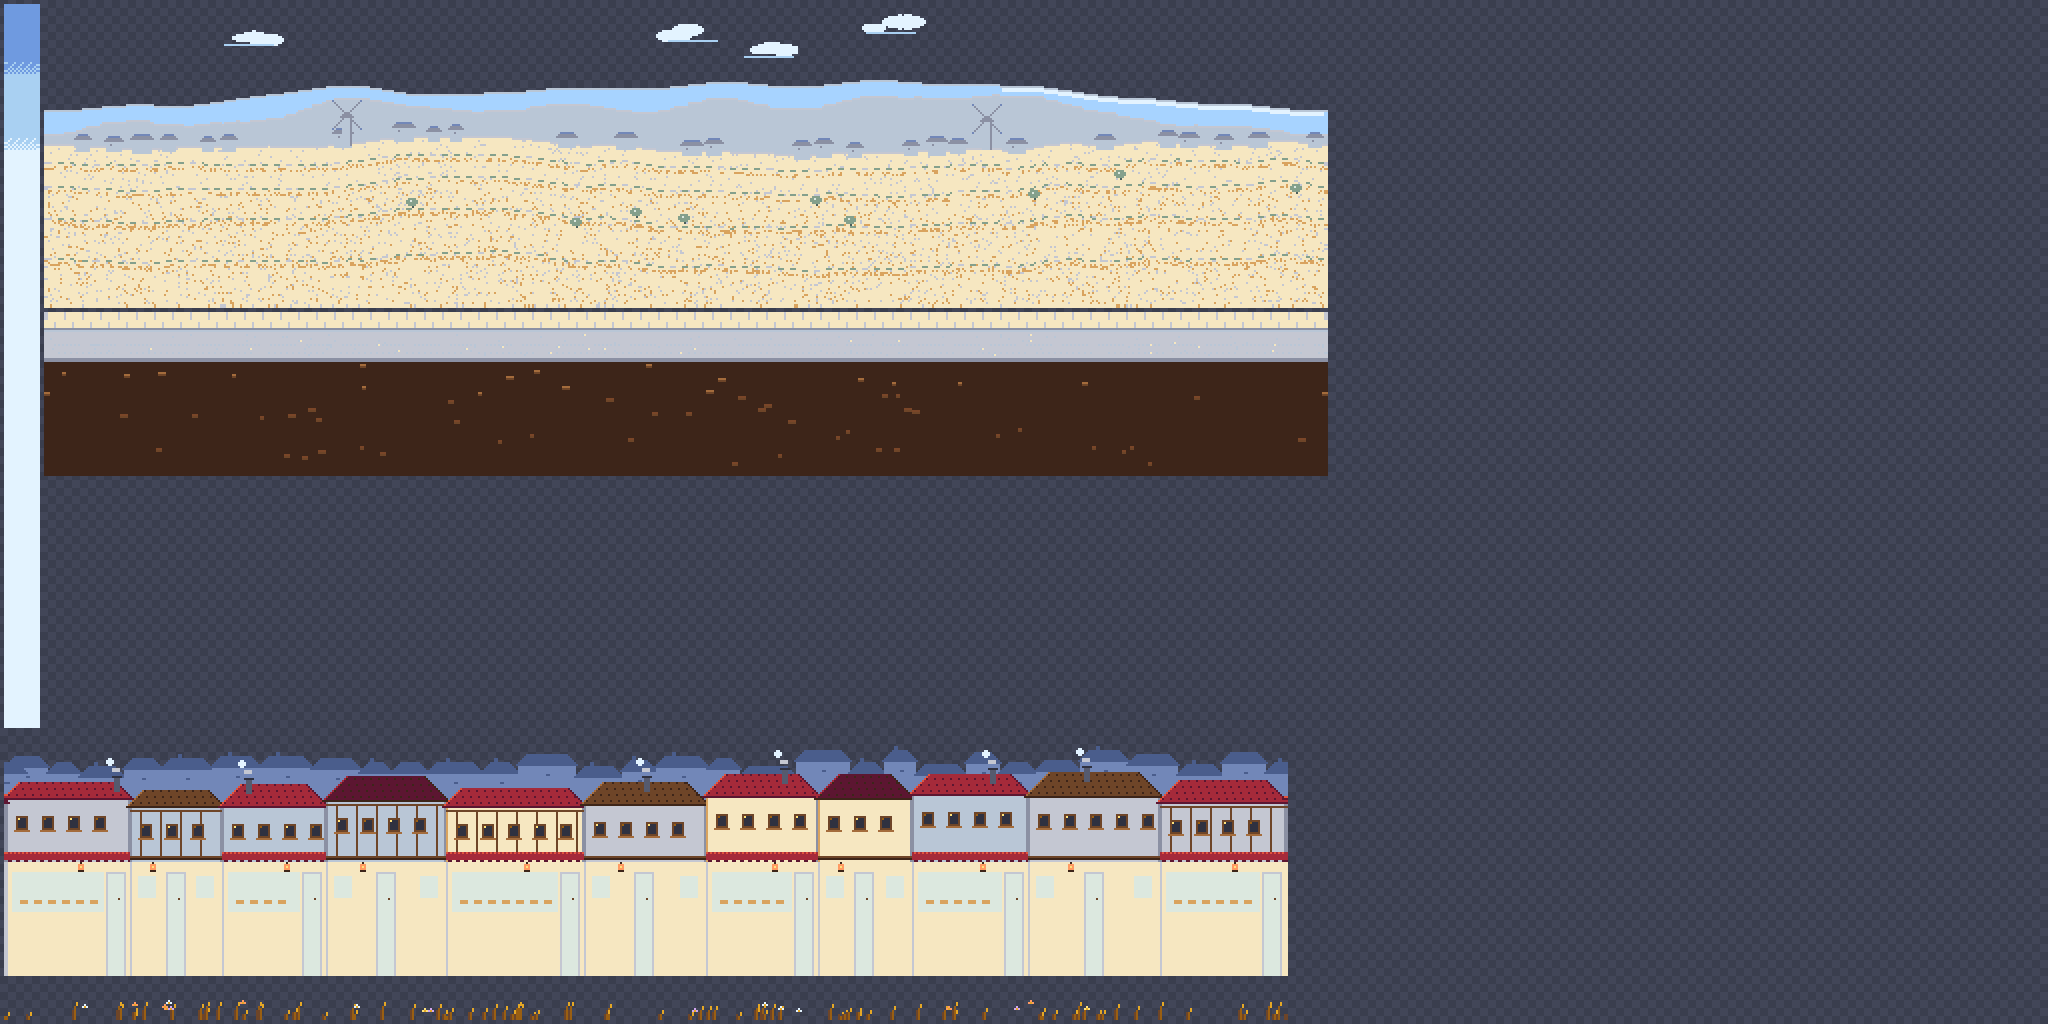
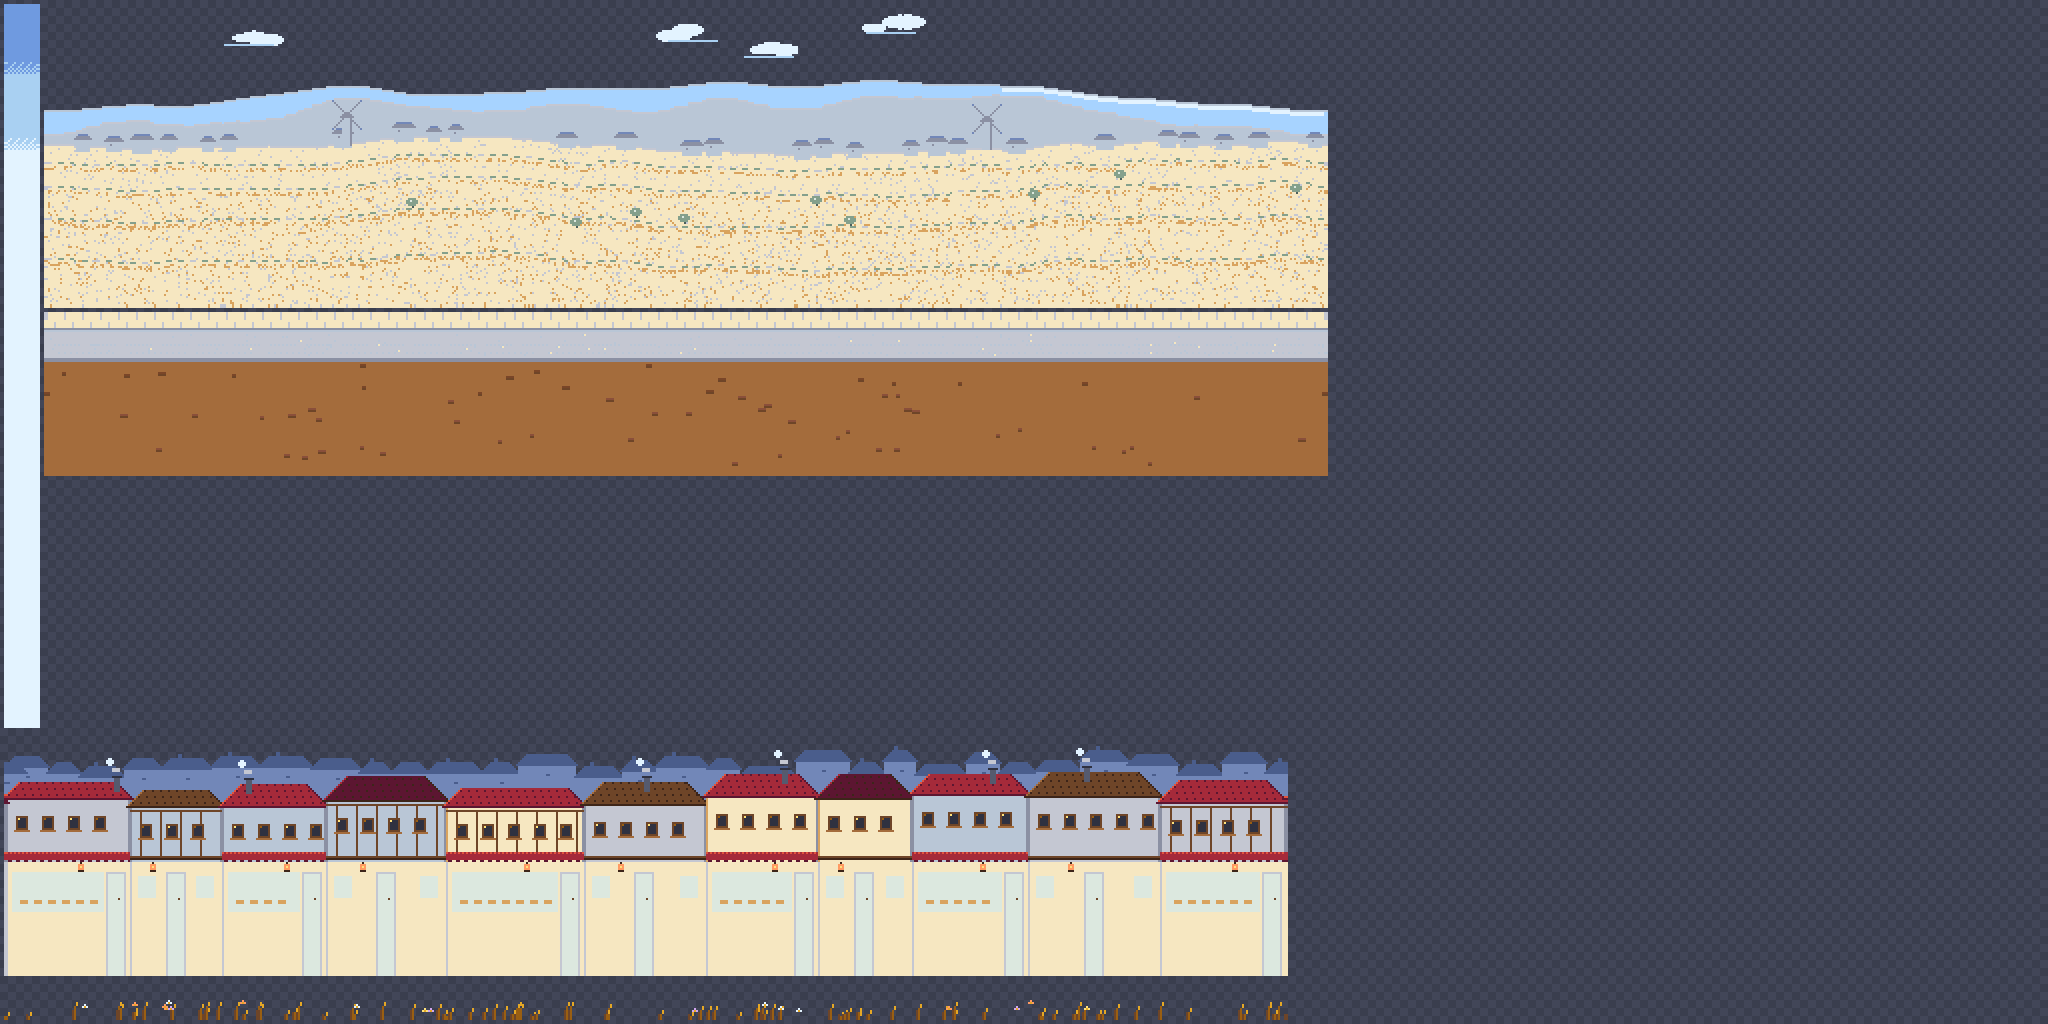
[Design] 09-art-world 06 W-2 응답: HUD 아래 흙 띠(y≥296) 평균 L* 25.4→54.1(06 방식 재현 23.4 확인), C4·성·둥지·투사체 값 그대로

Changed region(s): [[0.0, 0.3438, 0.6562, 0.4688]]

diff --git a/tools/art/biome.py b/tools/art/biome.py
@@ -710,6 +710,11 @@ STREET_LIGHT = dict(wall="U", corner="x", frame="z", glass="z", loaf="T", door_f
 STREET_STONE = dict(wall="x", corner="N", frame="N", glass="X", loaf="T", door_frame="X", door="N", knob="O",
                     pave="N", pave_joint="x", kerb="X", kerb2="N", lane="x", lane_edge="X", rut="N", dust="N", crumb="z")
 STREET = STREET_LIGHT
+# 06 W-2 (coordination/requests/06-art-ui-to-09-art-world.md): the soil band under the HUD row (screen y >= 296) needs
+# mean L* >= 39 (>= 43 if possible) so the HUD's dark edge reaches 3:1. Candidates, light street otherwise unchanged:
+SOIL_SAND = dict(soil="o", stone="O", stone_hi="H", stone_hi_low="s")     # warm sandy earth, L* 50.6
+SOIL_COBBLE = dict(soil="X", stone="A", stone_hi="x", stone_hi_low="M")   # cool grey cobble foundation, L* 60.0
+STREET = {**STREET_LIGHT, **SOIL_SAND}     # chosen (EXTERNAL_RANGE.md section 6): band 54.1 >= 43 with the smaller jump to the HUD
 
 
 def v2_mid(meta, seed=222):
@@ -764,7 +769,7 @@ def v2_ground(meta, seed=233):
             elif y < 24:
                 k = S["lane_edge"]
             else:
-                k = "w"
+                k = S.get("soil", "w")                                             # soil band under the HUD row
             cv.put(x, y, c(k))
     for x in range(W):                                                             # faint wheel ruts
         if (x // 3) % 6 != 0 and x % 2 == 0:
@@ -779,8 +784,8 @@ def v2_ground(meta, seed=233):
     for _ in range(60):                                                            # soil stones (mostly under the HUD)
         x, y, w = int(rng.integers(0, W)), int(rng.integers(26, 76)), int(rng.integers(2, 5))
         for i in range(w):
-            cv.put(x + i, y, c("O"))
-            cv.put(x + i, y - 1, c("H" if y > 40 else "o"))
+            cv.put(x + i, y, c(S.get("stone", "O")))
+            cv.put(x + i, y - 1, c(S.get("stone_hi_low", "H") if y > 40 else S.get("stone_hi", "o")))
     meta.update(view_y=280, parallax=1.0, tile=True, lane_line=LANE,
                 note="layer row 15 is the feet line: place layer at view_y = ground_y - 15")
     return cv

diff --git a/tools/art/world/hud_band.py b/tools/art/world/hud_band.py
@@ -1,0 +1,40 @@
+"""09-art-world: 06 W-2 ground band under the HUD row, measured the way 06 measured it.
+
+python tools/art/world/hud_band.py <bg_swap out dir> [tag=ko_1x]
+
+<dir> is the output of tools/art/ui_art/bg_swap.py (06's tool: 07's ad47eda fixed-set frames with the battlefield of
+a SHA drawn in). Value = mean CIE L* of the background layer (`layers/<tag>_<scene>_bg.png`, no HUD, units or text)
+over screen rows y >= 296, all columns, plus the mean WCAG relative luminance of the same pixels.
+Check: on 92a1718 this gives 23.4 in every scene, the number in 06's request (06-art-ui-to-09-art-world.md W-2).
+"""
+import json
+import os
+import sys
+
+import numpy as np
+from PIL import Image
+
+sys.path.insert(0, os.path.join(os.path.dirname(os.path.abspath(__file__)), "..", "..", "qa"))
+import art_metrics as am  # noqa: E402  (07's colour maths, read-only import)
+
+SCENES = ["2_r01_t10", "3_r01_t30", "4_r06_t46", "5_r08_peak", "6_r10_boss"]
+Y0 = 296
+
+
+def main(d, tag="ko_1x"):
+    out = {}
+    for sc in SCENES:
+        p = os.path.join(d, "layers", f"{tag}_{sc}_bg.png")
+        if not os.path.exists(p):
+            continue
+        bg = np.asarray(Image.open(p).convert("RGB"))[Y0:]
+        lin = bg.astype(float) / 255.0
+        lin = np.where(lin <= 0.04045, lin / 12.92, ((lin + 0.055) / 1.055) ** 2.4)
+        out[sc] = {"L_mean": round(float(am.lab(bg)[..., 0].mean()), 1),
+                   "rel_lum_mean": round(float((lin @ np.array([0.2126, 0.7152, 0.0722])).mean()), 3)}
+    print(json.dumps(out))
+    return out
+
+
+if __name__ == "__main__":
+    main(sys.argv[1], sys.argv[2] if len(sys.argv) > 2 else "ko_1x")

diff --git a/docs/art/world/EXTERNAL_RANGE.md b/docs/art/world/EXTERNAL_RANGE.md
@@ -53,3 +53,17 @@ tools/art/biome.py: `STREET = STREET_LIGHT` (cream U front, z windows/doors with
 | P1 interior ring (now info) ally / enemy min dL* | info | 28.1 / 11.2 | 11.5 / 18.1 |
 Also: validate --determinism PASS, contract_diff 0 changes, 08 asset_budget_check PASS (worst battle 8.75 MiB), cvd_check unchanged. A first light version with x/N doors and frames failed proj_sep (30–45: the 03 bread-roll arrow, T L* 70.7, sat on L* 80 details); lightening the details fixed it.
 Still open: units in front of the keep's dark lower course (C4 formula 0.6–3.8 at x 30–96; no lower-course colour tried fixes it, they pass there only in the first seconds of a round); bright stress variant boss_warlord 57.2; 07's real capture of this commit not run yet.
+
+## 6. 06 W-2: soil band under the HUD row (2026-11-01 ~09:30 KST, composites + 03 tools; no new GPU capture)
+06's request: the ground under the HUD row (screen y ≥ 296) needs mean L* ≥ 39, ≥ 43 if possible, so the HUD's dark edge reaches 3:1. Measured the way 06 did it: `tools/art/ui_art/bg_swap.py` (06's tool, 07 ad47eda frames with our battlefield drawn in), then `tools/art/world/hud_band.py` = mean L* of the background layer over rows y ≥ 296. It reproduces 06's 23.4 on 92a1718 in all five scenes. Candidates only change the soil rows of the ground layer (`biome.SOIL_SAND`, `SOIL_COBBLE`); bg_swap read their atlases through a wrapper because they were not committed yet.
+| measure (same tools as §5) | 46dd340 | soil sand `o` (chosen) | soil cobble `X` |
+|---|---|---|---|
+| band y ≥ 296 mean L* / relative luminance (06 line ≥ 39, better ≥ 43) | 25.4 / 0.099 FAIL | **54.0–54.1 / 0.241–0.242** | 62.2–62.3 / 0.321–0.322 |
+| C4 formula min / median (≥ 15) | 28.9 / 42.4 | 28.9 / 42.4 | 28.9 / 42.4 |
+| keep ring dE (≥ 25) / nest ring dE | 28.9 / 44.8 | 28.9 / 44.8 | 28.9 / 44.8 |
+| 03 nest_check dL* / protan dE (≥ 25 / ≥ 20) | 35.5–41.3 / 33.9–38.9 | same | same |
+| 03 readability proj_sep min, meadow / dark / bright (≥ 60) | 72.7 / 87.9 / 72.7 | same | same |
+| 03 readability sil_min meadow (≥ 60) | 60.8–70.9 | same | same |
+| cvd_check, validate --determinism, contract_diff, 08 budget | PASS, PASS, 0, PASS | same | same |
+The soil rows are below every unit, projectile and nest-check area, which is why the other numbers do not move. Choice: **sand**. Both pass 43; sand keeps the warm bakery earth and puts a smaller value jump between the HUD row and the ground (06's Z1/Z3 worry about the HUD drawing the eye), while cobble adds 8 L* more margin that 06 did not ask for. If 06's re-measure prefers low chroma under the cards (sand `o` has C* 39.6, cobble `X` 10.8), cobble is ready as `STREET = {**STREET_LIGHT, **SOIL_COBBLE}`.
+Evidence: docs/art/world/evidence/world2/soil_street_ab.json, preview_soil_{sand,cobble}_1x.png, readability_soil_{sand,cobble}.txt.

diff --git a/coordination/requests/09-art-world-to-06-art-ui.md b/coordination/requests/09-art-world-to-06-art-ui.md
@@ -3,3 +3,11 @@
 ## W1 2026-11-01 07:20 KST — FYI: shared assets/manifest.json and docs/art/ATLAS_BUDGET.md
 My commit carries both files as build.py wrote them on a clean `git archive` of HEAD 3f70d8f (it contains your adc0965 and 02ec60f) plus my three pages. The diff touches only the rows of biome_meadow, bases and fx_combat (disk_bytes), the totals line and the biome_01 sky clear_color. None of your ui_* rows change. I did not build in the shared tree, because your and 03's uncommitted tools/art sources are there; nothing of yours was regenerated by me this time.
 Earlier note: at ~02:5x a shared-tree build of mine regenerated ui_main.* and atlas_ui_main.png from your then-uncommitted ui.py once. I never committed those; the shared tree shows no ui_* change from me now.
+
+## W2 2026-11-01 ~09:30 KST — reply to your W-2 (ground band under the HUD row): mean L* 54.0–54.1 in the commit that carries this note
+(Written here because Publish-Task lets me commit only my own `09-art-world-to-*` request files, not your file.)
+- **Your method, reproduced:** your `bg_swap.py` on 07's ad47eda frames, then the mean L* of the background layer over screen rows y ≥ 296 (`tools/art/world/hud_band.py`). It gives your **23.4** on 92a1718 in all five scenes. 46dd340 (light street) is **25.4**: the light street did not reach the soil under the HUD.
+- **New value (soil rows of the ground layer only, warm sandy earth `o`):** **54.0–54.1** mean L*, mean relative luminance 0.241–0.242, in all five ko scenes. That is above both of your lines (39 for #07070c, 43 for K).
+- **Unchanged with it (same tools as before):** 07 C4 formula min 28.9 / median 42.4, keep ring dE 28.9, nest ring 44.8, 03 nest_check dL* 35.5–41.3 / protan 33.9–38.9, 03 readability proj_sep ≥ 72.7 in every variant, sil_min meadow 60.8–70.9, cvd, determinism, contract_diff 0, 08 budget PASS. The soil rows sit below every unit and projectile.
+- **Alternative ready:** cool grey cobble `X` gives 62.2–62.3 (C* 10.8 instead of 39.6). I picked sand for the smaller value jump between the HUD row and the ground. If your Z1/Z3 re-measure prefers the low-chroma cobble, tell me and I switch one line in biome.py.
+- Table and evidence: docs/art/world/EXTERNAL_RANGE.md §6. Composite and Python mock numbers only; no new GPU capture, no human player test, no phone check.

diff --git a/docs/art/ATLAS_BUDGET.md b/docs/art/ATLAS_BUDGET.md
@@ -13,7 +13,7 @@ Art version 0.13.0. Numbers are measured from the written files. GPU bytes = wid
 | `ui_main` | ui | always | 256×256 | 5.7 KiB | 0.25 MiB | 0.36 | 100 |
 | `ui_title_ko` | title | menu | 512×64 | 2.4 KiB | 0.12 MiB | 0.56 | 2 |
 | `ui_title_en` | title | menu | 256×128 | 3.2 KiB | 0.12 MiB | 0.51 | 2 |
-| `biome_meadow` | biome | per_round | 1024×512 | 13.6 KiB | 2.00 MiB | 0.46 | 5 |
+| `biome_meadow` | biome | per_round | 1024×512 | 13.5 KiB | 2.00 MiB | 0.46 | 5 |
 | **Total** | | | | **88.4 KiB** | **9.00 MiB** | | |
 
 Residency by scene (provisional, matches ENGINE.md §8 load rules):
